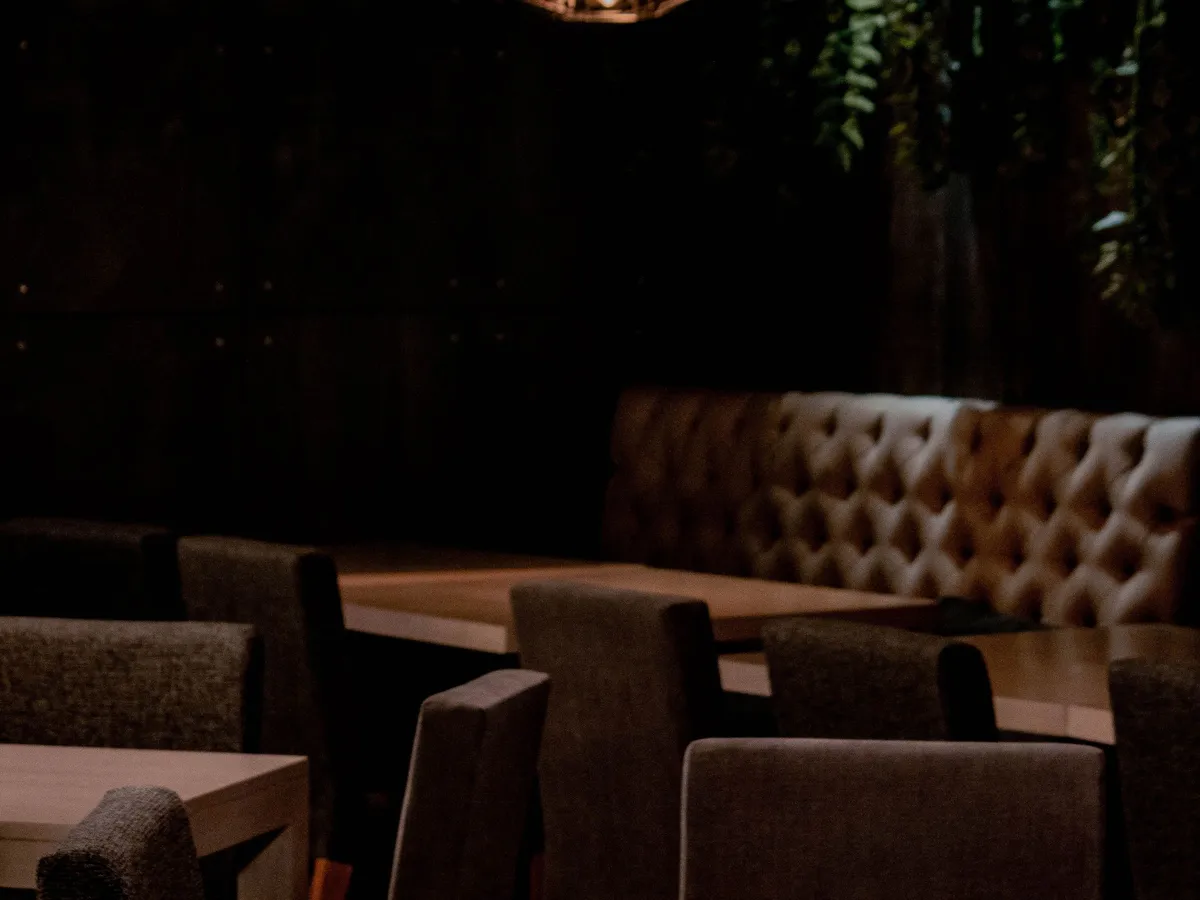
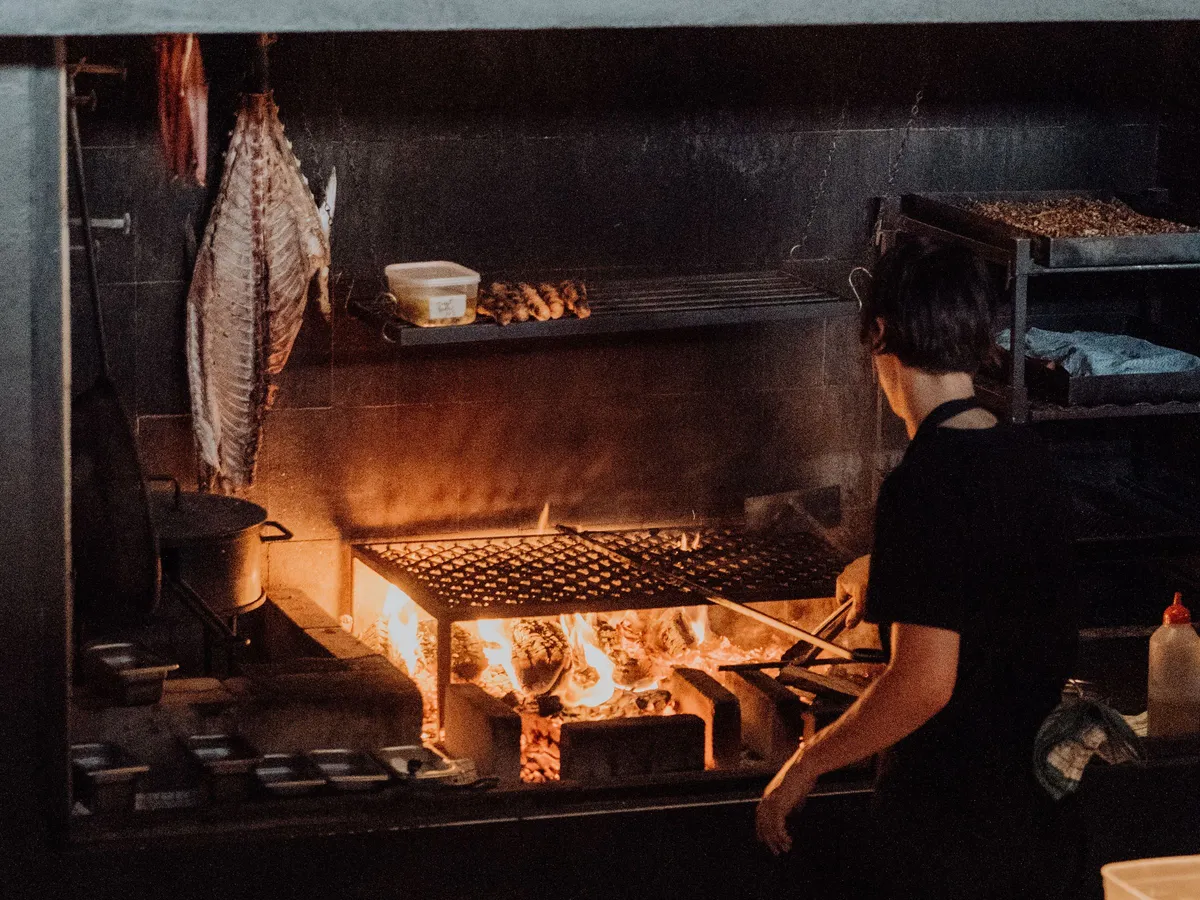
Das Haus: Foto vom Koch am Holzkohlegrill; Abschnitt «Was Gäste sagen» entfernt
Der Abschnitt wiederholte die drei Gründe und hatte keine echten Bewertungen.
Reviews-Komponente, reviews.json und die zugehörigen Typen sind weg.

diff --git a/src/lib/types.ts b/src/lib/types.ts
@@ -202,56 +202,6 @@ export interface Menu {
 }
 
 /* ------------------------------------------------------------------ */
-/* Bewertungen                                                         */
-/* ------------------------------------------------------------------ */
-
-/**
- * Bewusst als Zusammenfassung modelliert statt als erfundene Einzelzitate:
- * Es werden nur die aggregierte Bewertung mit Quellenangabe und wiederkehrende
- * Themen gezeigt. Echte, freigegebene Zitate können später in `quotes`.
- */
-export interface RatingSummary {
-  value: number;
-  max: number;
-  count: number;
-  /** Woher die Bewertung stammt, z. B. "Google". Wird sichtbar genannt. */
-  source: string;
-  sourceUrl: string;
-}
-
-export interface ReviewTheme {
-  id: string;
-  icon: IconName;
-  label: string;
-  text: string;
-  /**
-   * Kurzfassung fuer schmale Bildschirme. Auf dem Handy steht eine Karte
-   * ueber die volle Breite; die ausformulierte Fassung laeuft dort ueber
-   * rund zehn Zeilen. Fehlt das Feld, wird ueberall `text` gezeigt.
-   */
-  textShort?: string;
-}
-
-export interface ReviewQuote {
-  id: string;
-  quote: string;
-  author: string;
-  meta?: string;
-  rating: number;
-}
-
-export interface ReviewsContent {
-  eyebrow: string;
-  title: string;
-  intro?: string;
-  rating: RatingSummary | null;
-  themes: ReviewTheme[];
-  /** Leer lassen, bis echte, freigegebene Zitate vorliegen. */
-  quotes: ReviewQuote[];
-  quotesPlaceholder?: string;
-}
-
-/* ------------------------------------------------------------------ */
 /* Redaktionelle Texte                                                 */
 /* ------------------------------------------------------------------ */
 
@@ -348,5 +298,4 @@ export interface SiteContent {
   pages: PagesContent;
   menu: Menu;
   hours: OpeningHours;
-  reviews: ReviewsContent;
 }

diff --git a/src/app/page.tsx b/src/app/page.tsx
@@ -4,7 +4,6 @@ import { Hero } from "@/components/Hero";
 import { Highlights } from "@/components/Highlights";
 import { JsonLd } from "@/components/JsonLd";
 import { MenuSection } from "@/components/MenuSection";
-import { Reviews } from "@/components/Reviews";
 import { Ticker } from "@/components/Ticker";
 import { Visit } from "@/components/Visit";
 import { getContent } from "@/lib/content";
@@ -12,10 +11,10 @@ import { getContent } from "@/lib/content";
 /**
  * Reihenfolge nach dem Hero-Centric-Muster:
  * Hero (dominant, eine primäre Aktion) → Angebotsstreifen → Speisekarte als
- * Hauptinhalt → Gründe → Bewertungen als Vertrauensanker → Über uns → Besuch.
+ * Hauptinhalt → Gründe → Über uns → Besuch.
  */
 export default async function HomePage() {
-  const { site, pages, menu, hours, reviews } = await getContent();
+  const { site, pages, menu, hours } = await getContent();
 
   return (
     <>
@@ -30,8 +29,6 @@ export default async function HomePage() {
       <MenuSection content={pages.menuSection} menu={menu} />
 
       <Highlights content={pages.highlights} />
-
-      <Reviews content={reviews} />
 
       <About content={pages.about} />
 

diff --git a/src/lib/content.ts b/src/lib/content.ts
@@ -2,14 +2,12 @@ import menuData from "@content/menu.json";
 import hoursData from "@content/hours.json";
 import pagesData from "@content/pages.json";
 import siteData from "@content/site.json";
-import reviewsData from "@content/reviews.json";
 
 import type {
   Menu,
   OpeningHours,
   PagesContent,
   SiteConfig,
-  ReviewsContent,
   SiteContent,
 } from "./types";
 
@@ -48,20 +46,15 @@ export async function getHours(): Promise<OpeningHours> {
   return hoursData as unknown as OpeningHours;
 }
 
-export async function getReviews(): Promise<ReviewsContent> {
-  return reviewsData as unknown as ReviewsContent;
-}
-
 export async function getContent(): Promise<SiteContent> {
-  const [site, pages, menu, hours, reviews] = await Promise.all([
+  const [site, pages, menu, hours] = await Promise.all([
     getSite(),
     getPages(),
     getMenu(),
     getHours(),
-    getReviews(),
   ]);
 
-  return { site, pages, menu, hours, reviews };
+  return { site, pages, menu, hours };
 }
 
 /** Alle als `featured` markierten Gerichte über sämtliche Kategorien hinweg. */

diff --git a/src/components/Header.tsx b/src/components/Header.tsx
@@ -10,7 +10,6 @@ import type { OpeningHours, SiteConfig } from "@/lib/types";
 const NAV = [
   { label: "Speisekarte", href: "#speisekarte" },
   { label: "Warum Firestone", href: "#highlights" },
-  { label: "Bewertungen", href: "#bewertungen" },
   { label: "Über uns", href: "#ueber-uns" },
   { label: "Besuch", href: "#besuch" },
 ];

diff --git a/content/README.md b/content/README.md
@@ -13,7 +13,6 @@ etwas ändert, ändert die Seite — Programmierkenntnisse sind dafür nicht nö
 | `pages.json` | Alle Texte der Startseite: Hero, Highlights, Über uns, Besuch, Footer |
 | `menu.json` | Die komplette Speisekarte: Kategorien, Gerichte, Preise, Kennzeichnungen |
 | `hours.json` | Öffnungszeiten |
-| `reviews.json` | Bewertungen: Gesamtnote mit Quelle und echte Zitate |
 | `legal.json` | Impressum und Datenschutz |
 
 Nach jeder Änderung: Datei speichern — die Seite aktualisiert sich im
@@ -29,8 +28,7 @@ Diese Seite zeigt einen **erfundenen** Betrieb. Für einen echten Kunden:
 2. **`menu.json`** → Speisekarte und Preise vom Kunden bestätigen lassen
 3. **`hours.json`** → Öffnungszeiten bestätigen, danach `note` prüfen
 4. **`legal.json`** → Impressum und Datenschutz vervollständigen (rechtlich prüfen lassen)
-5. **`reviews.json`** → nur echte, freigegebene Angaben
-6. **`site.json`** → `demoMode` auf `false` setzen, damit der Beispiel-Hinweis verschwindet
+5. **`site.json`** → `demoMode` auf `false` setzen, damit der Beispiel-Hinweis verschwindet
 
 ---
 
@@ -99,30 +97,6 @@ Schweizer Zeit, egal wo der Gast gerade ist.
 
 ---
 
-## Bewertungen (`reviews.json`)
-
-Hier gilt eine harte Regel: **keine erfundenen Zitate.** Eine Gästestimme, die
-niemand gesagt hat, ist in der Schweiz unlautere Werbung — und fällt ausserdem
-auf, sobald jemand die Bewertungsseite aufruft.
-
-```json
-"rating": {
-  "value": 3.9, "max": 5, "count": 231,
-  "source": "Google", "sourceUrl": "https://…"
-}
-```
-
-- `rating` zeigt die Gesamtnote mit Quellenangabe und Link. Auf `null` setzen,
-  wenn keine Note gezeigt werden soll.
-- `themes` sind selbst formulierte Aussagen über den Betrieb — keine Zitate.
-- `quotes` bleibt leer (`[]`), bis echte, freigegebene Gästestimmen vorliegen.
-  Der Abschnitt erscheint erst, sobald mindestens ein Eintrag darin steht.
-
-Die Note wird bewusst **nicht** in die strukturierten Daten für Google
-geschrieben: Wer fremde Bewertungen auf der eigenen Seite auszeichnet, riskiert
-eine Abstrafung.
-
----
 
 ## Preise
 

diff --git a/README.md b/README.md
@@ -54,7 +54,6 @@ content/
 ├── pages.json     Texte der Startseite (Hero, Gründe, Über uns, Besuch, Footer)
 ├── menu.json      Speisekarte inkl. Weinkarte
 ├── hours.json     Öffnungszeiten
-├── reviews.json   Drei Aussagen über den Betrieb (keine erfundenen Zitate, keine Note)
 └── legal.json     Impressum und Datenschutz
 ```
 
